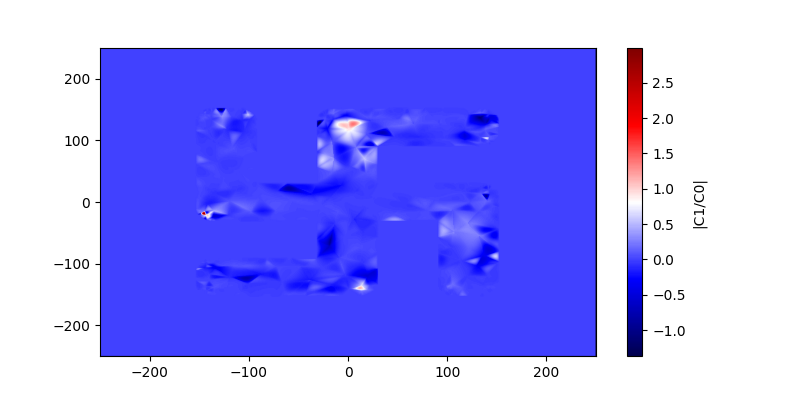
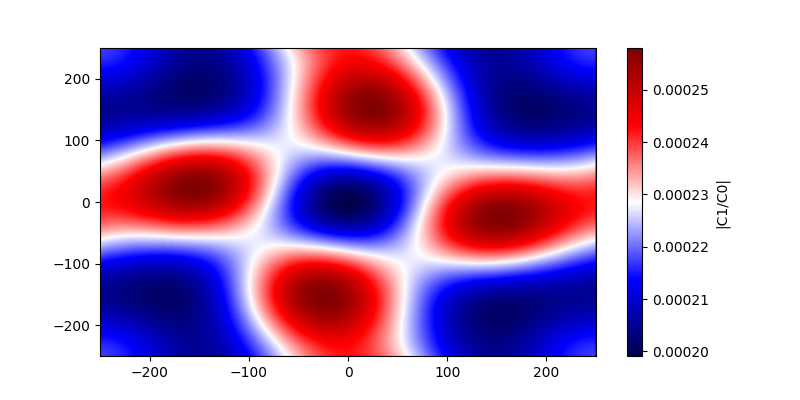
edits for gammadion colton discrepencies

diff --git a/nearfield_architect.py b/nearfield_architect.py
@@ -15,8 +15,8 @@ import matplotlib.pyplot as plt
 import scipy
 from scipy.ndimage import median_filter
 folder = "Near_Field_60AOI_batch_13_14/project_results_azi"
-#folder = "LH_Gammadion_Simulation_Racemic_Trp_500/project_results/"
-folder = "Near_Field_LH_Gammadion_Simulation_Racemic_Tyrosine_500/project_results/"
+folder = "LH_Gammadion_Simulation_Racemic_Trp_500/project_results/"
+#folder = "Near_Field_LH_Gammadion_Simulation_Racemic_Tyrosine_500/project_results/"
 
 #remember ----
 # - old azi/wvl
@@ -26,7 +26,7 @@ def ChiralDensityPlot(folder, trans_wvl, heights, azis):
     for azi in azis:
         for wvl in trans_wvl:
             #plug = folder+azi+'/wvl'+wvl+'_'
-            plug = folder
+            plug = folder+wvl
             first = True 
             for h in heights:
                 cfb = jcmwave.loadcartesianfields(plug+'ElectricChiralityDensity_xy_z'+h+'.jcm')
@@ -45,26 +45,26 @@ def ChiralDensityPlot(folder, trans_wvl, heights, azis):
             omega = (2*np.pi*c0)/(lam)
             eps0 = 8.854*1e-12
             #C0 = (2*eps0*omega)/(2*c0)
-            data = np.abs(C1/0.175)
+            data = np.abs(C1/C0)
             #data = np.log10(data)
             fdata = scipy.ndimage.median_filter(data,size=(4,4))
             fig, ax = plt.subplots(figsize=(8,4))
             plt.subplot(1,1,1)
             
-            plot1 = plt.pcolormesh(cfb['X']*10**9, cfb['Y']*10**9, fdata, cmap=plt.cm.seismic, shading='gouraud')
+            plot1 = plt.pcolormesh(cfb['X']*10**9, cfb['Y']*10**9, C0, cmap=plt.cm.seismic, shading='gouraud')
             low=0
-            high=100
+            high=5.5
             #plot1 = plt.pcolormesh(cfb['X']*10**9, cfb['Y']*10**9, fdata, cmap=plt.cm.seismic, shading='gouraud', vmin=low, vmax=high)
              
             cb = plt.colorbar(plot1, label="|C1/C0|")     
-            plt.savefig("pillar"+str(wvl)+"colton.png")
-azis = ['13']
+            plt.savefig("gammadion"+str(wvl)+"colton.png")
+azis = ['41']
 lambdas = [230]
-heights = ['110']
+heights = ['225', '75']
 s_wvl = []
 for l in lambdas:
-   #s_wvl.append('82arm_trans_wvl' + str(l) + '_')
-   s_wvl.append(str(l))
+   s_wvl.append('82arm_trans_wvl' + str(l) + '_')
+   #s_wvl.append(str(l))
 ChiralDensityPlot(folder, s_wvl, heights, azis) 
 exit()
 
